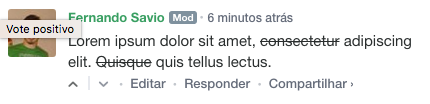
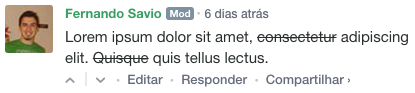
Post sobre Disqus e ajustes no CSS do site

Changed region(s): [[0.0, 0.043, 0.9831, 0.7097], [0.2313, 0.7527, 0.8675, 0.9247], [0.1446, 0.7742, 0.2024, 0.8817]]

diff --git a/_layouts/post.html b/_layouts/post.html
@@ -46,7 +46,7 @@ layout: compress
     <script type="text/javascript" src="https://cdnjs.cloudflare.com/ajax/libs/anchor-js/3.2.2/anchor.min.js"></script>
     <script type="text/javascript">
       anchors.options.placement = 'left';
-      anchors.add();
+      anchors.add('.inner-post h1, .inner-post h2, .inner-post h3, .inner-post h4');
     </script>
     {% include scripts.html %}
     {% include overlay.html %}                            

diff --git a/assets/_sass/_site.scss b/assets/_sass/_site.scss
@@ -562,12 +562,22 @@ canvas {
   h6 {
     font-weight: bold;
     color: rgba($overlay-color, 0.7);
+
+    & > small {
+      display: inline;
+      margin-left: 5px;
+      font-size: 0.7em;
+      font-weight: normal;
+    }
   }
   p {
     font-size: 18px;
     line-height: 1.6;
     color: #6c6c6c;
     margin-bottom: 1.3em;
+  }
+  em {
+    font-style: italic;
   }
   small {
     color: darken($white, 40);

diff --git a/_posts/2016-06-06-comentarios-disqus.md b/_posts/2016-06-06-comentarios-disqus.md
@@ -55,6 +55,7 @@ Enfim, decidi documentar aqui no meu blog para facilitar minha vida (e de mais a
 
 Bora lá, começando pela famigerada tag `<spoiler>`!
 
+---
 
 ## Spoiler<small>(&lt;spoiler&gt;)</small>
 **Código**:
@@ -64,8 +65,11 @@ elit. Quisque quis tellus lectus.
 ```
 **Resultado**:
 
-Lorem ipsum dolor sit amet, <spoiler>consectetur</spoiler> adipiscing elit. Quisque quis tellus lectus.
+![Resultado para a tag spoiler]({{ site.url }}/images/disqus/disqus_spoiler_tag.gif)
 
+<!-- Lorem ipsum dolor sit amet, <spoiler>consectetur</spoiler> adipiscing elit. Quisque quis tellus lectus. -->
+
+---
 
 ## Hyperlinks<small>(&lt;a&gt;)</small>
 
@@ -76,7 +80,11 @@ adipiscing elit. Quisque quis tellus lectus.
 ```
 **Resultado**:
 
-Lorem ipsum dolor sit amet, <a href="https://mussumipsum.com/">consectetur</a> adipiscing elit. Quisque quis tellus lectus.
+![Resultado para a tag a]({{ site.url }}/images/disqus/disqus_link_tag.png)
+
+---
+
+<!-- Lorem ipsum dolor sit amet, <a href="https://mussumipsum.com/">consectetur</a> adipiscing elit. Quisque quis tellus lectus. -->
 
 ## Negrito<small>(&lt;strong&gt; ou &lt;b&gt;)</small>
 
@@ -87,7 +95,11 @@ elit. <b>Quisque</b> quis tellus lectus.
 ```
 **Resultado**:
 
-Lorem ipsum dolor sit amet, <strong>consectetur</strong> adipiscing elit. Quisque quis tellus lectus.
+<!-- Lorem ipsum dolor sit amet, <strong>consectetur</strong> adipiscing elit. Quisque quis tellus lectus. -->
+
+![Resultado para a tag strong]({{ site.url }}/images/disqus/disqus_strong_tag.png)
+
+---
 
 ## Itálico<small>(&lt;em&gt; ou &lt;i&gt;)</small>
 
@@ -98,7 +110,11 @@ elit. <i>Quisque</i> quis tellus lectus.
 ```
 **Resultado**:
 
-Lorem ipsum dolor sit amet, <strong>consectetur</strong> adipiscing elit. Quisque quis tellus lectus.
+<!-- Lorem ipsum dolor sit amet, <strong>consectetur</strong> adipiscing elit. Quisque quis tellus lectus. -->
+
+![Resultado para a tag em]({{ site.url }}/images/disqus/disqus_emphasis_tag.png)
+
+---
 
 
 ## Riscado<small>(&lt;strike&gt; ou &lt;s&gt;)</small>
@@ -110,7 +126,11 @@ elit. <s>Quisque</s> quis tellus lectus.
 ```
 **Resultado**:
 
-Lorem ipsum dolor sit amet, <strike>consectetur</strike> adipiscing elit. <s>Quisque</s> quis tellus lectus.
+<!-- Lorem ipsum dolor sit amet, <strike>consectetur</strike> adipiscing elit. <s>Quisque</s> quis tellus lectus. -->
+
+![Resultado para a tag strike]({{ site.url }}/images/disqus/disqus_strike_tag.png)
+
+---
 
 
 ## Citações<small>(&lt;blockquote&gt;)</small>
@@ -123,8 +143,15 @@ Quisque quis tellus lectus.
 </blockquote>
 ```
 **Resultado**:
-<blockquote>Lorem ipsum dolor sit amet, consectetur adipiscing elit. Quisque quis tellus lectus.</blockquote>
 
+<!-- <blockquote>Lorem ipsum dolor sit amet, consectetur adipiscing elit. Quisque quis tellus lectus.</blockquote> -->
+
+![Resultado para a tag blockquote]({{ site.url }}/images/disqus/disqus_blockquote_tag.png)
+
+---
+
+
+<!--
 
 ## Menções<small>(&lt;cite&gt;)</small>
 
@@ -201,6 +228,7 @@ elit. Quisque quis tellus lectus. Fusce egestas magna
 quis ligula tempus scelerisque.</p>
 
 
+
 ## Span<small>(&lt;span&gt;)</small>
 
 *Código*:
@@ -214,6 +242,7 @@ magna quis ligula</span> tempus scelerisque.
 
 Lorem ipsum dolor sit amet, consectetur adipiscing elit. Quisque quis tellus lectus. <span>Fusce egestas magna quis ligula</span> tempus scelerisque.
 
+-->
 
 ## Códigos e Syntax Highlighting<small>(&lt;pre&gt; e &lt;code&gt;)</small>
 
@@ -230,9 +259,7 @@ print fib(5)
 </code></pre>
 ```
 
-*Resultado*:
-
-<pre><code class="python">
+<!-- <pre><code class="python">
 ## Fibonacci using recursion
 def fib(n):
     if n==1 or n==2:
@@ -240,7 +267,8 @@ def fib(n):
     return fib(n-1)+fib(n-2)
 
 print fib(5)
-</code></pre>
+</code></pre> -->
+
 
 Escapando HTML nos códigos:
 
@@ -255,9 +283,15 @@ egestas&#60;/strike&#62; magna quis ligula tempus scelerisque.
 
 *Resultado*:
 
-<pre><code class="html">
+![Resultado para a tag code]({{ site.url }}/images/disqus/disqus_code_tag.png)
+
+<!-- <pre><code class="html">
 Lorem ipsum dolor sit amet, &#60;strong&#62;consectetur&#60;/strong&#62; adipiscing elit. Quisque quis tellus lectus. &#60;strike&#62;Fusce egestas&#60;/strike&#62; magna quis ligula tempus scelerisque.
-</code></pre>
+</code></pre> -->
+
+---
+
+*PS: as tags `<cite>`, `<span>`, `<p>`, `<caption>` e `<table>` não foram incluídas no post por não ter efeito aparente nos testes.*
 
 
 [Disqus]: https://disqus.com/
